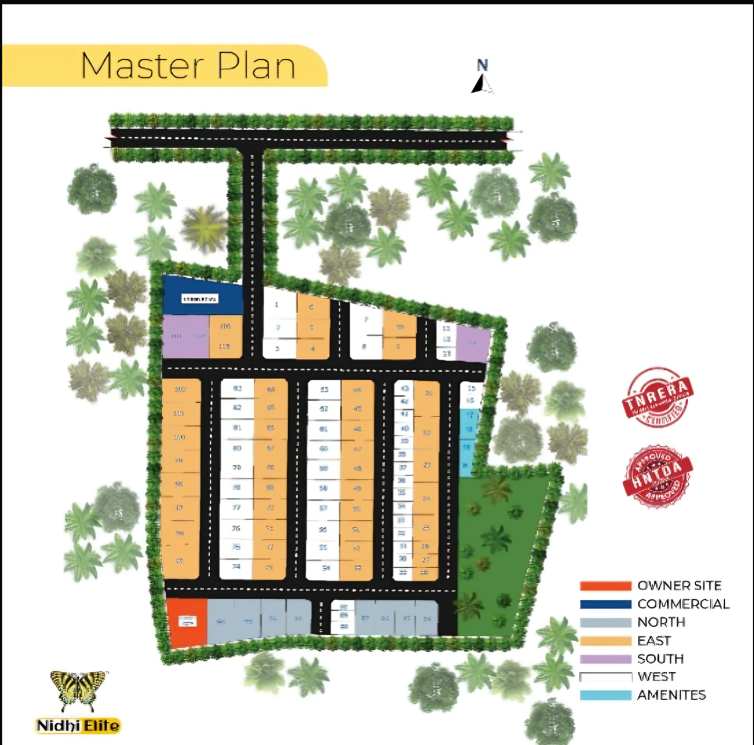
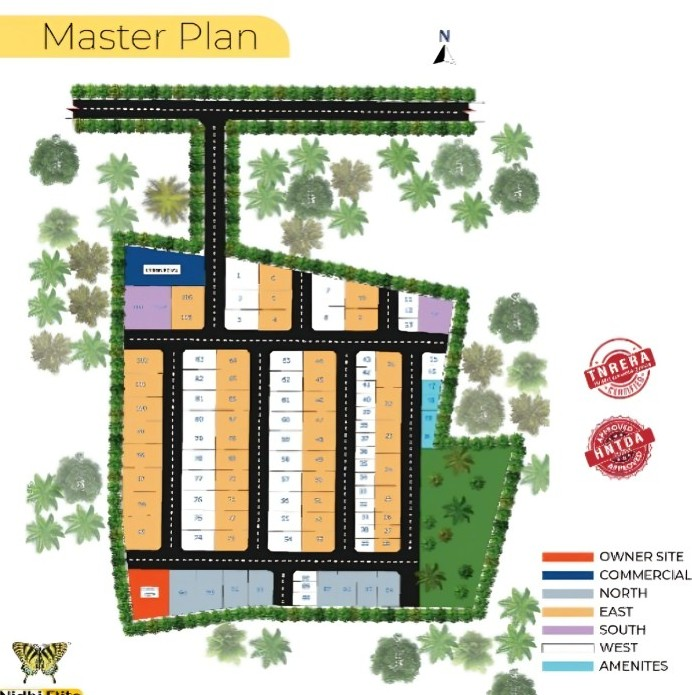
sync main changes to nidhi-elite branch
#VERCEL_SKIP

diff --git a/components/plots-intro.tsx b/components/plots-intro.tsx
@@ -37,21 +37,10 @@ export function PlotsIntro() {
           </p>
         </div>
 
+        {/* ✅ Swapped Layout: Image Left | Text Right */}
         <div className="grid lg:grid-cols-2 gap-6 sm:gap-8 lg:gap-10 items-center">
-          {/* Left — Features */}
-          <div className="space-y-4 sm:space-y-5 lg:space-y-6 order-2 lg:order-1">
-            <ul className="space-y-2 sm:space-y-3">
-              {plotFeatures.map((feature, index) => (
-                <li key={index} className="flex items-start space-x-2 sm:space-x-3">
-                  <CheckCircle className="w-4 sm:w-5 h-4 sm:h-5 text-primary mt-0.5 flex-shrink-0" />
-                  <p className="text-xs sm:text-sm lg:text-base text-foreground leading-relaxed">{feature}</p>
-                </li>
-              ))}
-            </ul>
-          </div>
-
-          {/* Right — Full-fit Image (never cropped) */}
-          <div className="order-1 lg:order-2 relative w-full h-[250px] sm:h-[350px] lg:h-[400px] flex items-center justify-center">
+          {/* LEFT — Image */}
+          <div className="relative w-full h-[250px] sm:h-[350px] lg:h-[400px] order-1 flex items-center justify-center">
             <Card className="relative border-0 rounded-2xl overflow-hidden w-full h-full shadow-xl bg-background flex items-center justify-center">
               <div className="relative w-full h-full">
                 <Image
@@ -59,12 +48,27 @@ export function PlotsIntro() {
                   alt="Nidhi Elite master plan and layout"
                   fill
                   loading="lazy"
-                  className="object-contain object-center rounded-2xl"
+                  // ✅ Changed from object-contain to object-fill (no black edges)
+                  className="object-fill object-center rounded-2xl"
                   sizes="(max-width: 640px) 100vw, (max-width: 1024px) 50vw, 50vw"
-                  quality={85}
+                  quality={90}
                 />
               </div>
             </Card>
+          </div>
+
+          {/* RIGHT — Features */}
+          <div className="space-y-4 sm:space-y-5 lg:space-y-6 order-2">
+            <ul className="space-y-2 sm:space-y-3">
+              {plotFeatures.map((feature, index) => (
+                <li key={index} className="flex items-start space-x-2 sm:space-x-3">
+                  <CheckCircle className="w-4 sm:w-5 h-4 sm:h-5 text-primary mt-0.5 flex-shrink-0" />
+                  <p className="text-xs sm:text-sm lg:text-base text-foreground leading-relaxed">
+                    {feature}
+                  </p>
+                </li>
+              ))}
+            </ul>
           </div>
         </div>
       </div>
